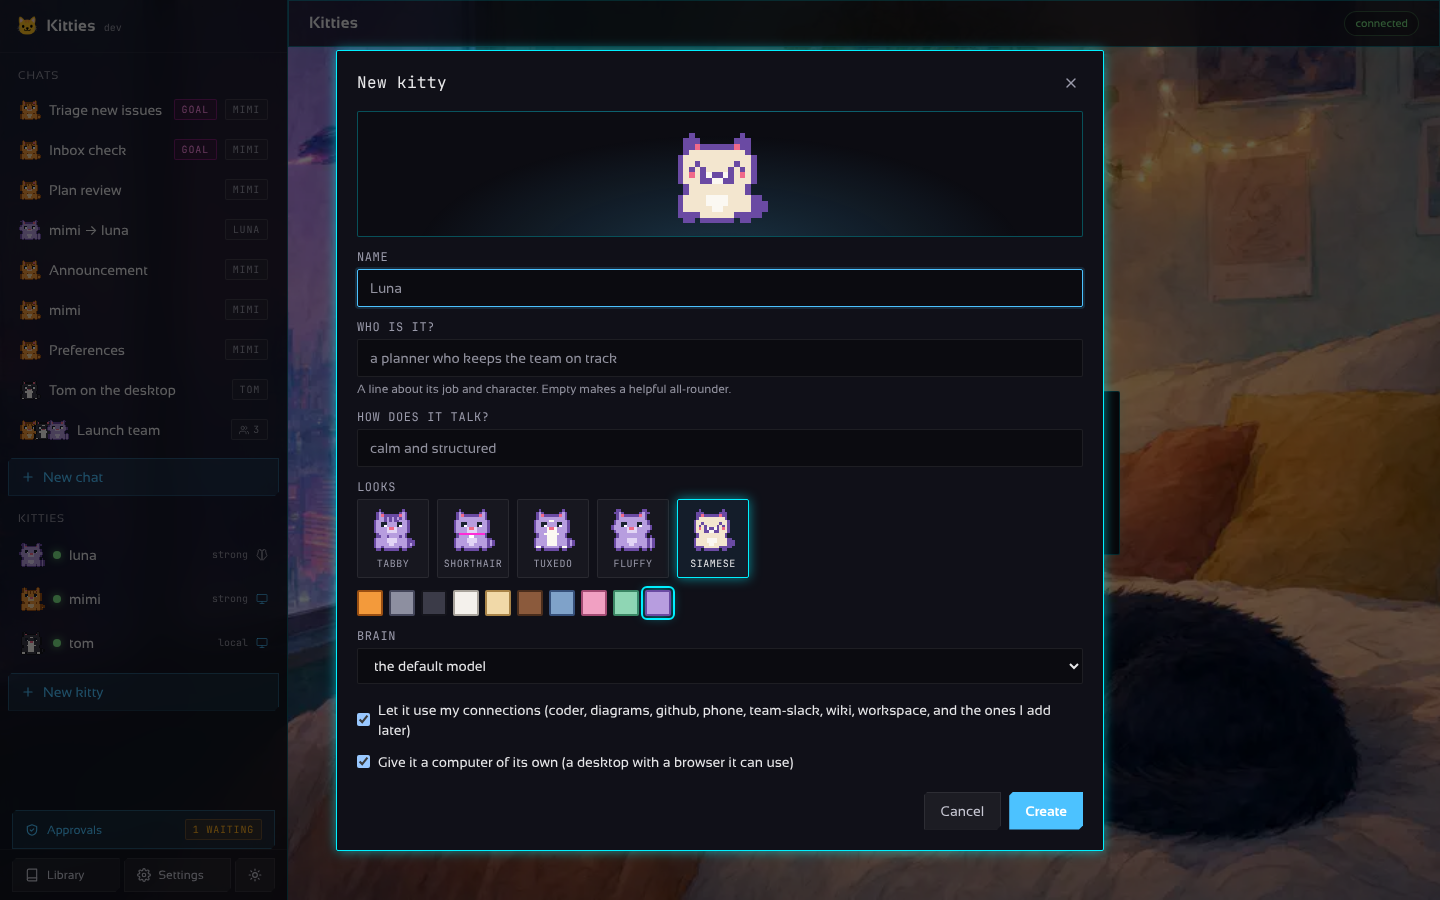
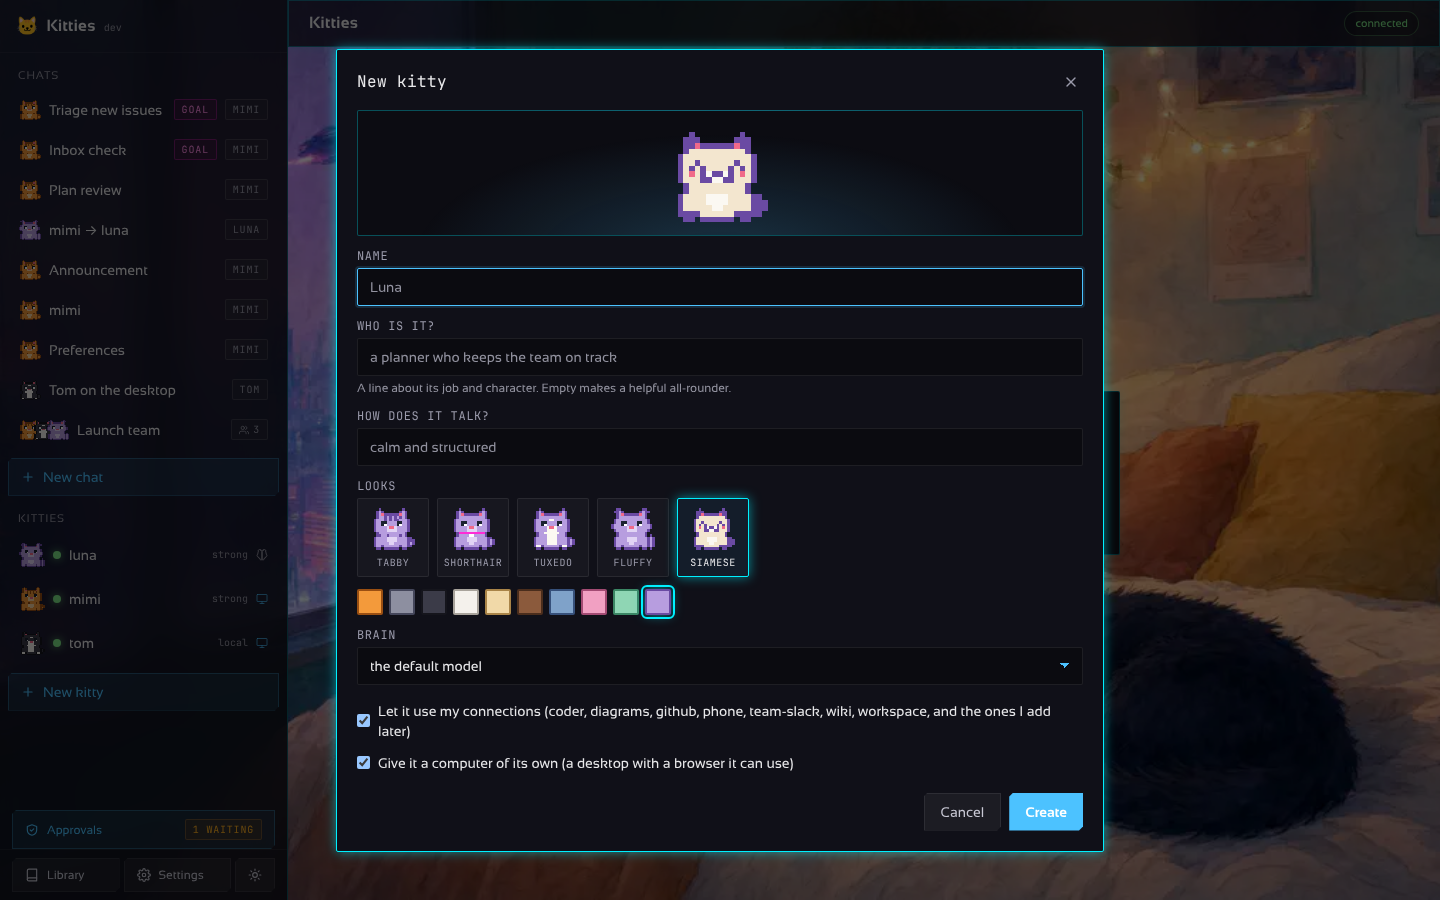
style(desktop): selects and checkboxes follow the design system
Selects drop the system's button for the fields' sunken box, a neon chevron
and the accent focus ring, with a dark option list; checkboxes and radios
take the accent colour.

Claude-Session: https://claude.ai/code/session_01G4WhTC4VX1E1kVWM8d6N2Z

diff --git a/desktop/frontend/src/index.css b/desktop/frontend/src/index.css
@@ -232,6 +232,40 @@ select {
     border-color var(--motion-base) var(--ease-out),
     box-shadow var(--motion-base) var(--ease-out);
 }
+/* A select is drawn like the other fields (the system's own button ignores the design): no
+   native chrome, a neon chevron, room for it, and a dark list where the system draws one. */
+select {
+  appearance: none;
+  -webkit-appearance: none;
+  padding-right: 2.25rem;
+  background-image:
+    linear-gradient(45deg, transparent 50%, var(--color-accent) 50%),
+    linear-gradient(135deg, var(--color-accent) 50%, transparent 50%);
+  background-position:
+    calc(100% - 17px) 50%,
+    calc(100% - 12px) 50%;
+  background-size:
+    5px 5px,
+    5px 5px;
+  background-repeat: no-repeat;
+  cursor: pointer;
+  text-overflow: ellipsis;
+}
+input[type="checkbox"],
+input[type="radio"] {
+  accent-color: var(--color-accent);
+}
+select:hover:not(:disabled) {
+  border-color: rgb(var(--accent-rgb) / 0.45);
+}
+select:disabled {
+  opacity: 0.55;
+  cursor: not-allowed;
+}
+select option {
+  background: rgb(var(--bg-rgb));
+  color: var(--t1);
+}
 input:focus,
 textarea:focus,
 select:focus {
@@ -332,6 +366,15 @@ select:focus {
 }
 .dot.stopped {
   background: var(--c-amber);
+}
+.dot.starting {
+  background: var(--color-accent);
+  animation: dot-pulse 1.2s ease-in-out infinite;
+}
+@keyframes dot-pulse {
+  50% {
+    opacity: 0.35;
+  }
 }
 
 /* Rows of the sidebar. */
